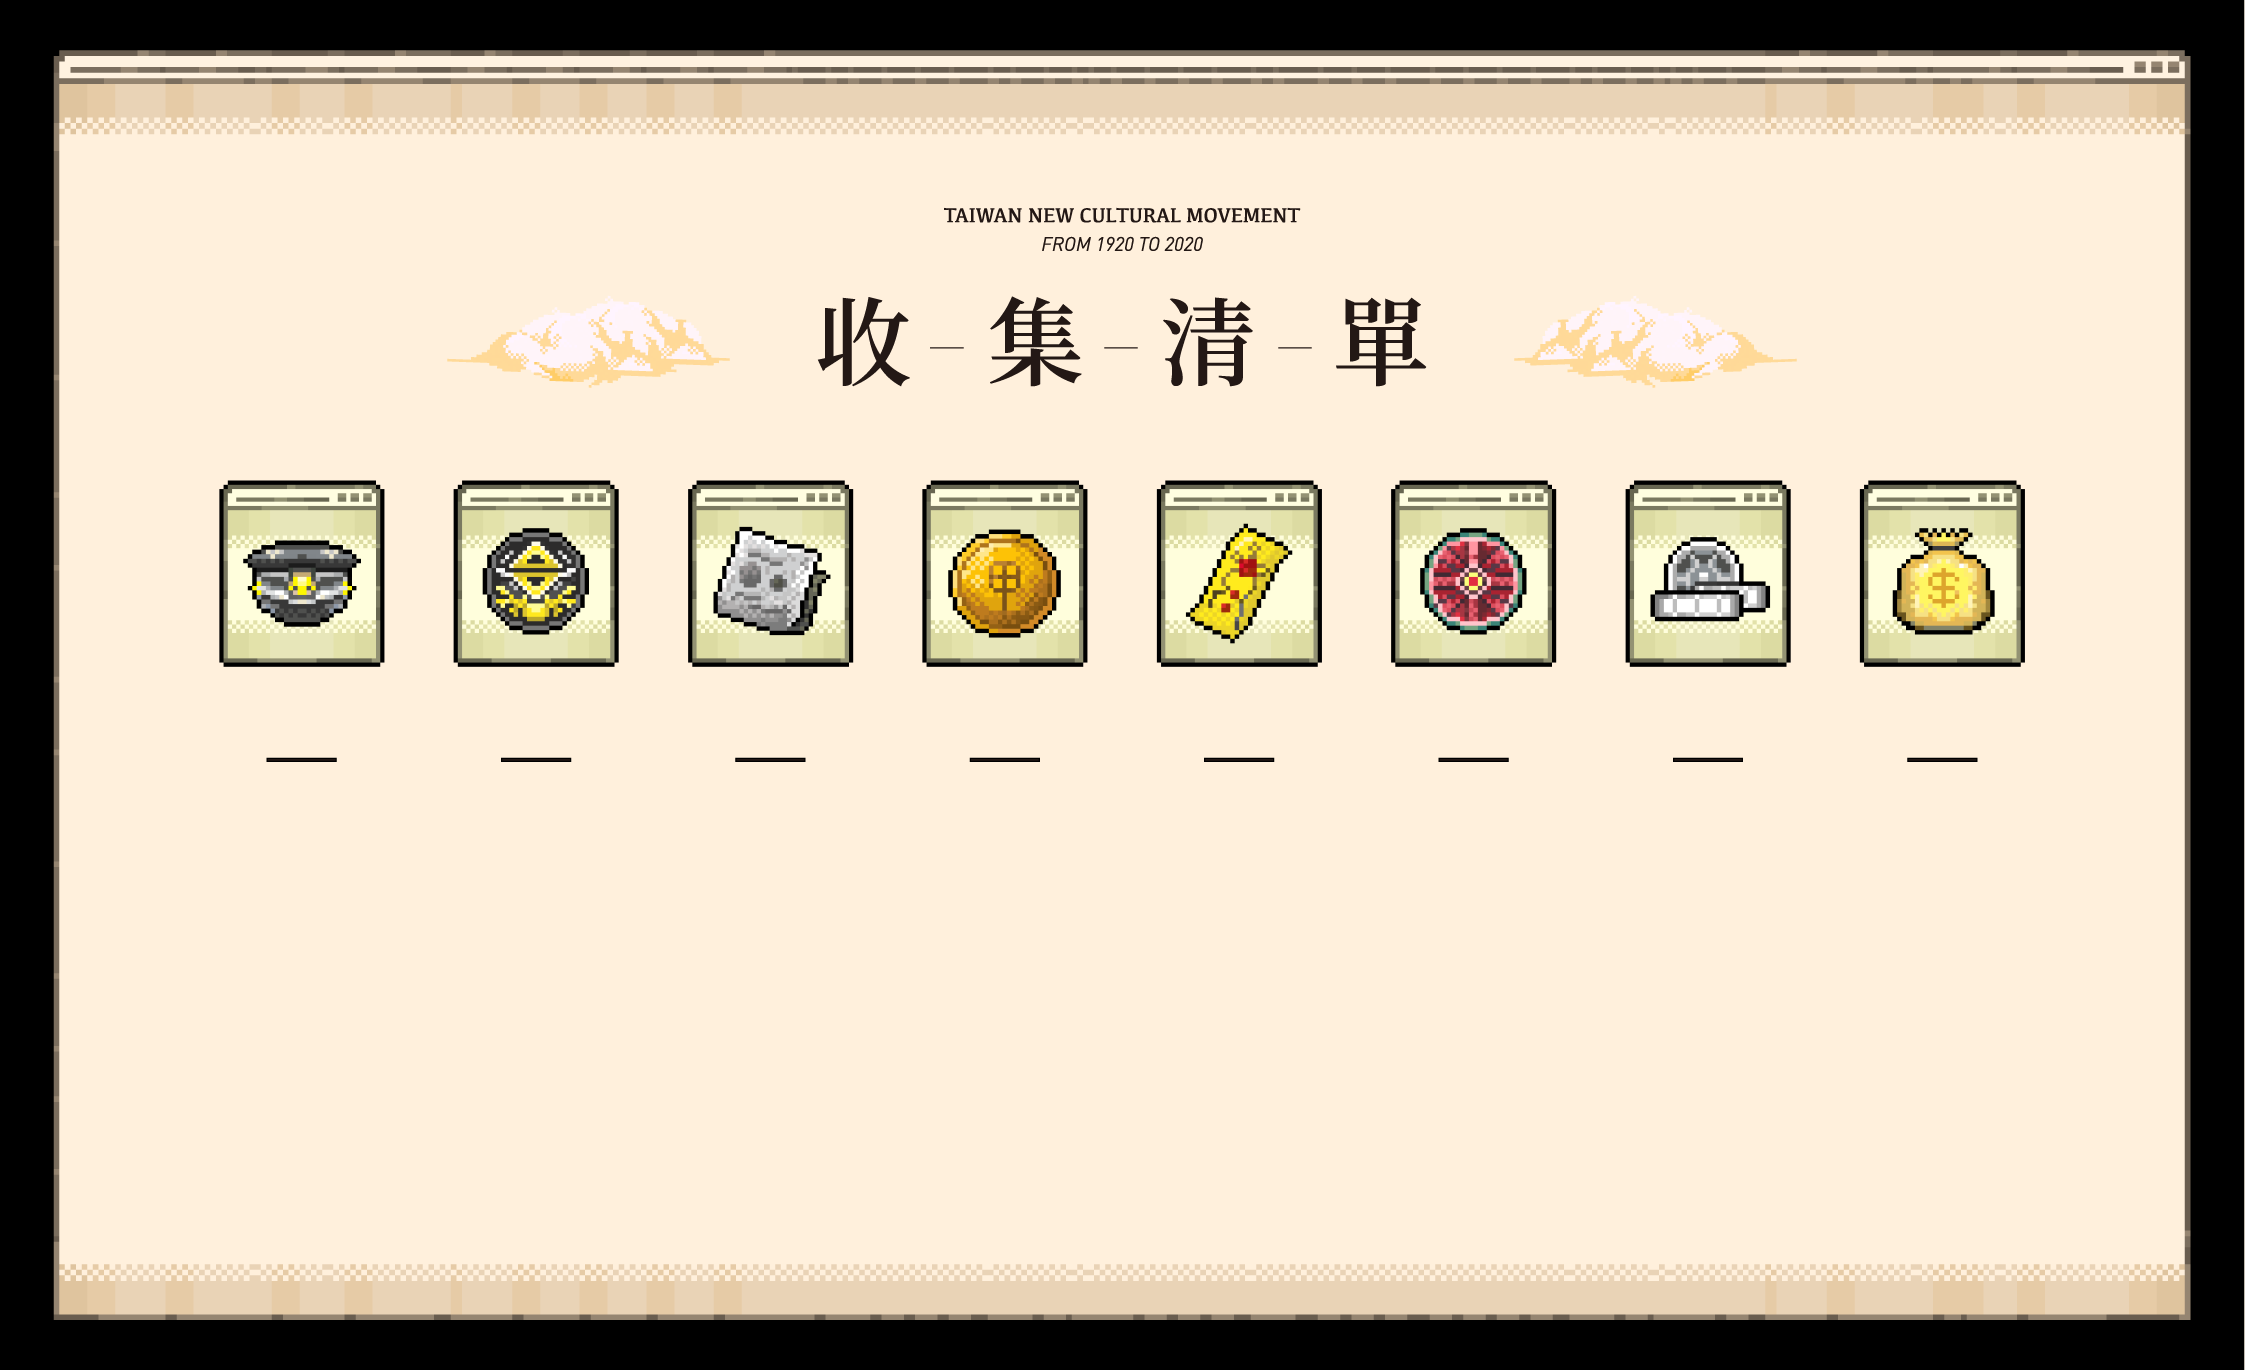
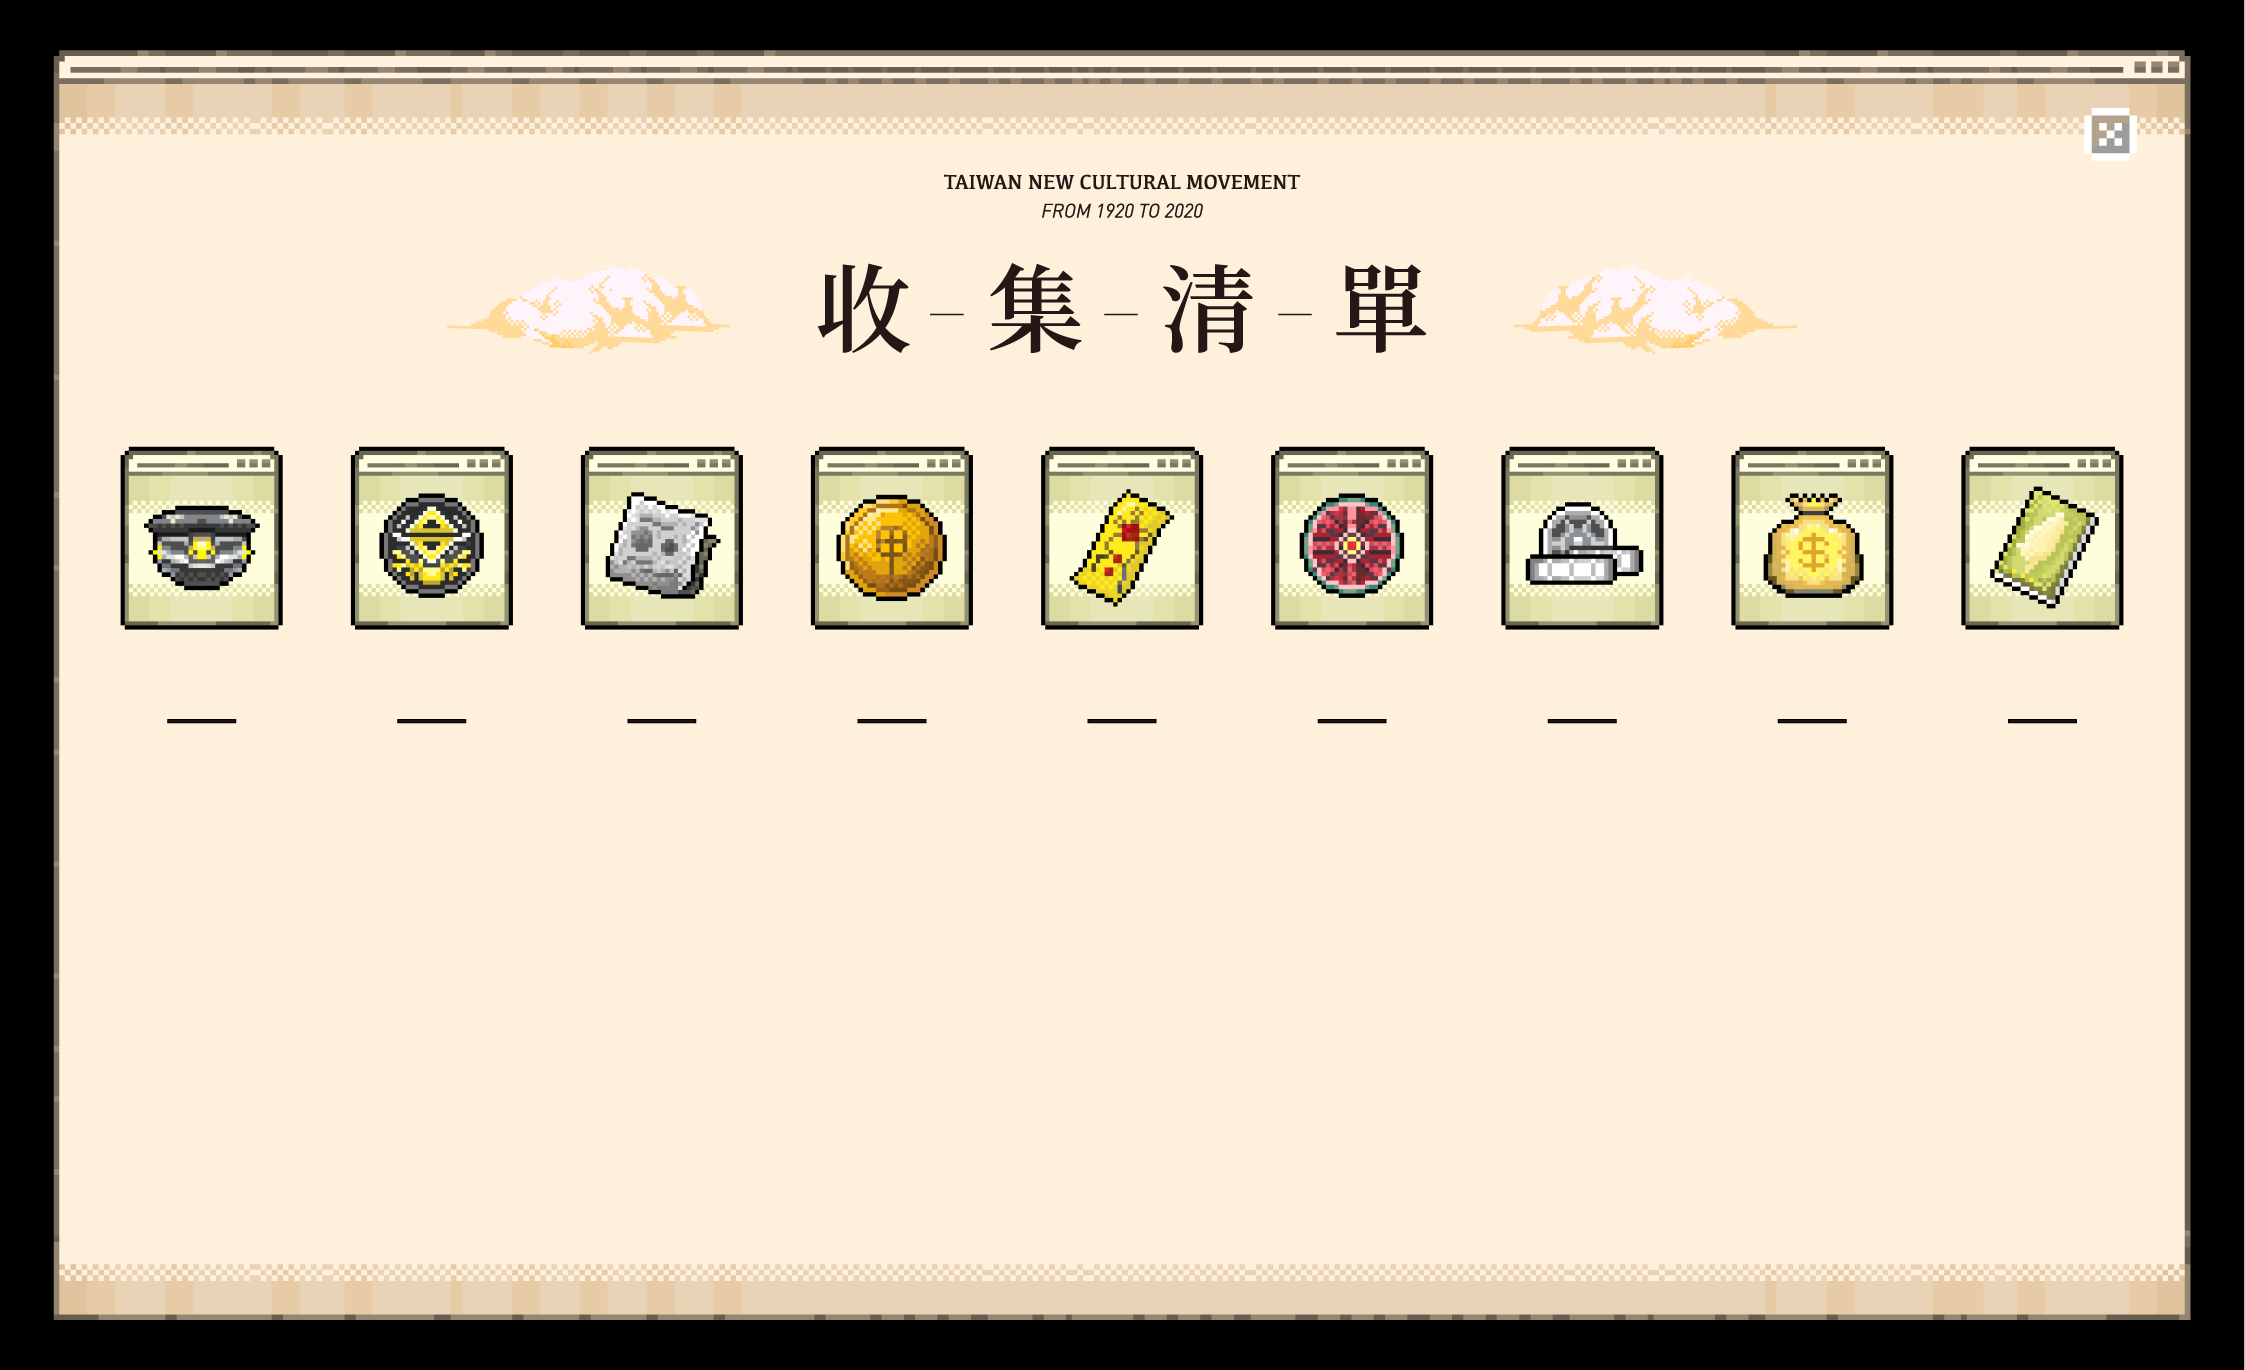
1030

diff --git a/Script/SetScene3.js b/Script/SetScene3.js
@@ -1698,7 +1698,7 @@ async function SetObject() {
                   break;
               }
               scene5_CollectItemText[i].text = t;
-              scene5_CollectItemText[i].position.set(108 - scene5_CollectItemText[i].width / 2 + i * 83.5, 225);
+              scene5_CollectItemText[i].position.set(108 - 36 - scene5_CollectItemText[i].width / 2 + i * 82, 225);
 
             }
 
@@ -1738,21 +1738,20 @@ async function SetObject() {
 
             scene5_CollectResultText.text += "；\n因為你的選擇，總督府對社會的控制達到了";
             scene5_CollectResultText.text += (Math.round(centerComponent.rate * 100));
-            if(scene1_radio + 1!=0){
-              scene5_CollectResultText.text += "%，期間通過了";   
+            if (scene1_radio + 1 != 0) {
+              scene5_CollectResultText.text += "%，期間通過了";
               scene5_CollectResultText.text += (scene1_radio + 1);
               scene5_CollectResultText.text += "條不平等法令，\n最終促成了";
             }
-            else
-            {
+            else {
               scene5_CollectResultText.text += "%，期間沒通過任何不平等法令，\n最終促成了";
             }
-           
+
             if (centerComponent.rate >= 0.5) scene5_CollectResultText.text += "公益會";
             else scene5_CollectResultText.text += "文化協會";
             scene5_CollectResultText.text += "的誕生，可喜可賀，可喜可賀！";
 
-            scene5_CollectResultText.x = (screenWidth-scene5_CollectResultText.width)/2;
+            scene5_CollectResultText.x = (screenWidth - scene5_CollectResultText.width) / 2;
 
           }
 
@@ -1802,31 +1801,31 @@ async function SetObject() {
 
           let style2 = new PIXI.TextStyle({
             fontFamily: "NotoSansCJKtc-Regular",
-            fontSize: 32, //36
+            fontSize: 50, //36
             fill: "black",
             align: "center",
             //stroke: '#000000',
             //strokeThickness: 0,
-            letterSpacing: 2.8,
+            letterSpacing: 5.0,
             padding: 100,
-            lineHeight: 50
+            lineHeight: 100
           });
           {
             scene5_CollectItemText = [];
             for (let i = 0; i < 9; i++) {
               let T0 = new PIXI.Text("X0", style);
               T0.scale.set(0.5, 0.5);
-              T0.position.set(108 - T0.width / 2 + i * 83.5, 227);
+              T0.position.set(108 - 36 - T0.width / 2 + i * 82, 215);
               scene5_CollectBoard.addChild(T0);
               scene5_CollectItemText.push(T0);
 
-              if (i == 8) T0.visible = false;
+
             }
 
 
             scene5_CollectResultText = new PIXI.Text("你一共蒐集了18件總督府的權力物件，16件有志之士的象徵物件，\n你也參與了演講會、購買掛號、吸食鴉片、蓋長官銅像；\n因為你的選擇，總督府對社會的控制達到了50%，期間通過了5條不平等法令，\n最終促成了公益會的誕生，可喜可賀，可喜可賀！", style2);
-            scene5_CollectResultText.scale.set(0.5, 0.5);
-            scene5_CollectResultText.position.set((screenWidth - scene5_CollectResultText.width) / 2, 290);
+            scene5_CollectResultText.scale.set(0.25, 0.25);
+            scene5_CollectResultText.position.set((screenWidth - scene5_CollectResultText.width) / 2, 285);
             scene5_CollectBoard.addChild(scene5_CollectResultText);
           }
         }
@@ -2248,16 +2247,16 @@ async function SetObject() {
       });
       let style2 = new PIXI.TextStyle({
         fontFamily: "pixelSilver",
-        fontSize: 48,
+        fontSize: 96,
         fill: "white",
-        letterSpacing: 2,
-        padding: 48
+        letterSpacing: 4,
+        padding: 96
       });
 
-      scene5_textEmpty = new PIXI.Text("傳說集得大明慈悲國的遺落物，即可召喚元帥", style2);
-      scene5_textEmpty.scale.set(0.5, 0.5);
+      scene5_textEmpty = new PIXI.Text("傳說集得五枚大明慈悲國的遺落物，即可召喚元帥", style2);
+      scene5_textEmpty.scale.set(0.25, 0.25);
       //scene5_textEmpty.x = (screenWidth-scene5_textEmpty)/2; scene5_textEmpty.y = 320;
-      scene5_textEmpty.position.set((screenWidth - scene5_textEmpty.width) / 2, 312 + deltaY);
+      scene5_textEmpty.position.set((screenWidth - scene5_textEmpty.width) / 2, 315 + deltaY);
       sceneA.addChild(scene5_textEmpty);
 
       let text = new PIXI.Text("", style);
@@ -2626,7 +2625,7 @@ async function SetObject() {
 
         //14
         scene9_itemTitleList[2].push("議會請願傳單");
-        scene9_itemContentList[2].push("相傳會從天而降的傳單，據聞共有上萬張。");
+        scene9_itemContentList[2].push("相傳會從天而降、足有上萬張的傳單，由兼具紳章與錢袋之人發放。");
 
         //14
         scene9_itemTitleList[2].push("掛號小販");
@@ -3199,6 +3198,9 @@ async function JumpResult_End(result) {
 }
 
 function selectSelectBox(a) {
+
+  PIXI.sound.play('option_click');
+
   scene3_dialogContainer.dialogBoxSTarget = a;
   if (optionsNumber == 2) {
     if (a == 0) {
@@ -3220,6 +3222,7 @@ function selectSelectBox(a) {
     }
   }
 }
+
 function clickSelectBox(a) {
 
   //console.log(scene3_selectIndex + " " + a);
@@ -3228,6 +3231,9 @@ function clickSelectBox(a) {
     selectSelectBox(a);
   }
   else {
+
+    PIXI.sound.play('option_click');
+
     scene3_dialogContainer.dialogBoxS0.visible = false;
     scene3_dialogContainer.dialogBoxS1.visible = false;
     scene3_dialogContainer.dialogBoxS2.visible = false;
@@ -3322,7 +3328,7 @@ async function GameFunction() {
 
     scene3_selectBoxes[i].addListener("pointerdown", () => {
 
-      PIXI.sound.play('option_click');
+
       clickSelectBox(i);
 
     });

diff --git a/Script/SetScene1.js b/Script/SetScene1.js
@@ -778,7 +778,8 @@ function SetObject() {
     //新聞跑馬燈
     scene1_NewsList = [];
     scene1_NewsContainer = new PIXI.Container();
-    scene1_uIBoardSP.addChild(scene1_NewsContainer);
+    scene1_RadioContainer.addChild(scene1_NewsContainer);
+
     for (let i = 0; i < 5; i++) {
 
       let scene1_Radio = new PIXI.Sprite(PIXI.Texture.from("News" + i));
@@ -1920,7 +1921,7 @@ function GameFunction() {
       temp.tint = "0x07ffa5";
 
       scene1_RadioContainer.visible = false;
-      scene1_NewsContainer.visible = false;
+      //scene1_NewsContainer.visible = false;
 
       app.ticker.add(function TitleShine(deltaTime) {
 
@@ -1928,8 +1929,6 @@ function GameFunction() {
 
           temp.visible = false;
           scene1_RadioContainer.visible = true;
-          if (scene1_radioPlaying == false)
-            scene1_NewsContainer.visible = true;
           app.ticker.remove(TitleShine);
           return;
 
@@ -1953,8 +1952,6 @@ function GameFunction() {
 
             temp.visible = false;
             scene1_RadioContainer.visible = true;
-            if (scene1_radioPlaying == false)
-              scene1_NewsContainer.visible = true;
             app.ticker.remove(TitleShine);
 
           }
@@ -2225,7 +2222,7 @@ function showRadio(rate = 0) {
         scene1_radioPlaying = false;
         scene1_NewsContainer.visible = true;
         scene1_NewsList[temp].visible = true;
-        scene1_NewsList[temp].x = 230;
+        scene1_NewsList[temp].x = 230+82;
 
         app.ticker.add(function newsCountDown() {
 
@@ -2236,7 +2233,7 @@ function showRadio(rate = 0) {
           }
 
           timer -= 1;
-          scene1_NewsList[temp].x = -10 + 240 * timer / totalTimer;
+          scene1_NewsList[temp].x = -10 + 240 * timer / totalTimer + 82;
           if (timer == 0) {
             scene1_NewsList[temp].visible = false;
             app.ticker.remove(newsCountDown);

diff --git a/Script/ResourceLoader.js b/Script/ResourceLoader.js
@@ -33,6 +33,9 @@ async function LoadResourceLoader() {
   Scene0_TouchToStartBlackBut.position.set(0, 0);
   Scene0_TouchToStartBlack.addChild(Scene0_TouchToStartBlackBut);
 
+  await document.fonts.load('16px DINPro-Regular_13937');
+
+  
   //padding可以處理字體顯示位置不正確的問題
   let style = new PIXI.TextStyle({
     fontFamily: "DINPro-Regular_13937",
@@ -53,7 +56,7 @@ async function LoadResourceLoader() {
   sceneLoading_scoreText.scale.set(1, 1);
   sceneLoading_scoreText.position.set(10, 10);
   sceneLoading_scoreText.visible = true;
-  Scene0_TouchToStartBlack.addChild(sceneLoading_scoreText);
+  //Scene0_TouchToStartBlack.addChild(sceneLoading_scoreText);
 
   let timerA = new PIXI.Text("", style);
   timerA.scale.set(1, 1);
@@ -553,7 +556,7 @@ async function SetLoader() {
   await document.fonts.load('8px pixelSilver');
   await document.fonts.load('16px NotoSansCJKtc-Regular');
   await document.fonts.load('16px NotoSansCJKtc-Medium');
-  await document.fonts.load('16px DINPro-Regular_13937');
+ 
 
 
   //音樂載入

diff --git a/Script/CenterFunction.js b/Script/CenterFunction.js
@@ -173,7 +173,7 @@ async function GoToNextScene() {
   await centerComponent.currentStage++;
 
   //centerComponent.fadeUI.visible = false;
-  //centerComponent.currentStage = 10 ;
+  //centerComponent.currentStage = 16  ;
   //loadScript("Script/SetScene3.js");
   //return;
 

diff --git a/Script/SetScene2.js b/Script/SetScene2.js
@@ -715,7 +715,7 @@ function GameFunction() {
 
         scene2_startTimer = 0;
 
-        PIXI.sound.play('ending_stamp');
+        //PIXI.sound.play('ending_stamp');
 
         app.ticker.add(
           function EndTitleShowUp(deltaTime) {
